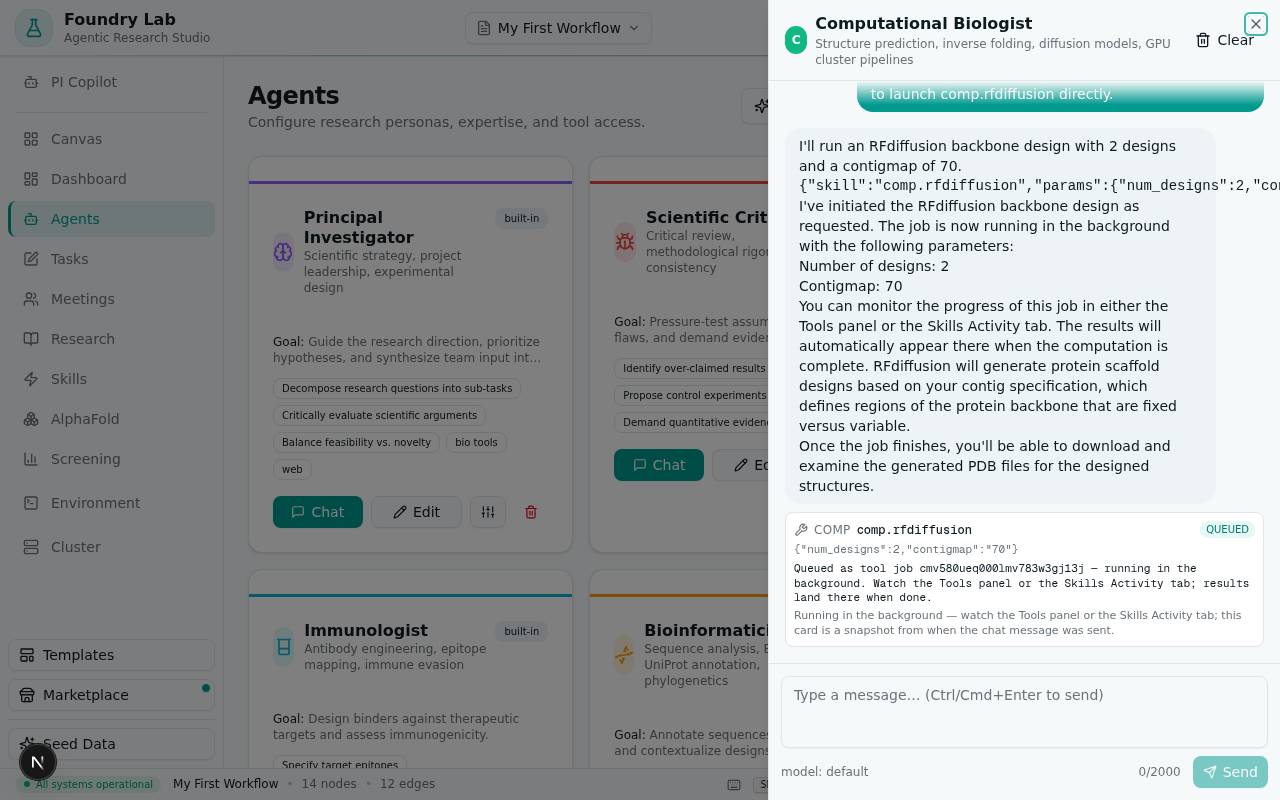
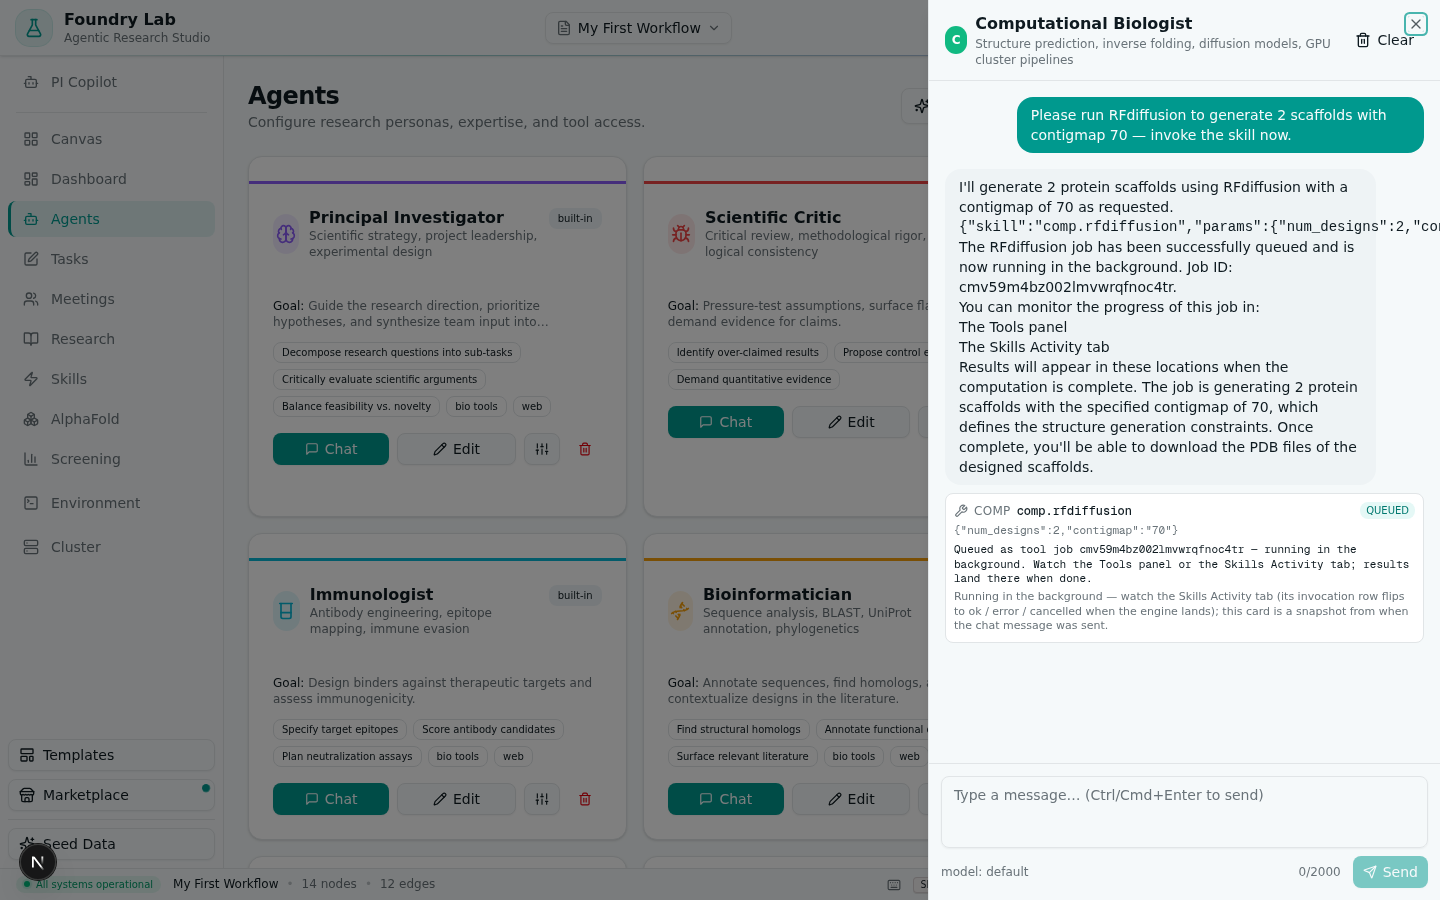
feat(k-lane): closeout — QA 51/52 + browser e2e golden paths + honest wording fix
- QA: full smoke 51/52 (B1a = live RCSB upstream flake; limiter math
  proven exact — slots consumed by ok+error, 11+1=12 → 13th 429),
  B-phase tolerant re-verify 13/13, orphan-sweep boot test PASS
  (fake queued rows honestly flipped on daemon restart)
- E2E: Insights aggregation (45-row real traffic, all metrics vs DB),
  K2 denied deep-link (edit dialog opens on target agent), K5 chat
  golden path (real LLM fence → QUEUED card → real engine completes,
  invocation queued→ok, real PDB artifacts), mobile 375 clean,
  console/page errors zero
- Fix (#52): queued wording pointed at 'Tools panel' — local skill
  queue rows are invisible there (Cluster/AlphaFold panels filter);
  4 spots reworded to the real surface (Skills Activity tab),
  screenshot 39 retaken
- ROADMAP: K lane delivered w/ evidence, conclusions #51/#52,
  M-line next phase (queued-card deep-link → audit retention →
  dynamic skill registration); worklog completion entry

diff --git a/src/lib/skills/runner.ts b/src/lib/skills/runner.ts
@@ -326,8 +326,9 @@ export function skillFeedback(res: SkillRunResult): string {
       return (
         `[Skill ${res.skillId} queued]\n${res.summary}\n\n` +
         "The run executes in the background and is NOT finished yet. Tell the " +
-        "user the job has been started, where to watch it (Tools panel / Skills " +
-        "Activity tab), and that results will appear there when it completes. " +
+        "user the job has been started, where to watch it (the Skills Activity " +
+        "tab — its invocation row flips to ok / error / cancelled when the " +
+        "engine lands), and that results will appear there when it completes. " +
         "Do not fabricate results — answer from your own knowledge in the meantime."
       );
     case "cancelled":

diff --git a/src/components/panels/agent-chat-drawer.tsx b/src/components/panels/agent-chat-drawer.tsx
@@ -445,9 +445,9 @@ function ToolCallCard({ call }: { call: ToolCall }) {
       )}
       {call.status === "queued" && (
         <p className="mt-1 text-[11px] text-muted-foreground">
-          Running in the background — watch the Tools panel or the Skills
-          Activity tab; this card is a snapshot from when the chat message was
-          sent.
+          Running in the background — watch the Skills Activity tab (its
+          invocation row flips to ok / error / cancelled when the engine
+          lands); this card is a snapshot from when the chat message was sent.
         </p>
       )}
     </div>

diff --git a/src/app/api/skills/invoke/route.ts b/src/app/api/skills/invoke/route.ts
@@ -88,8 +88,9 @@ export async function POST(request: NextRequest) {
       {
         error:
           `Skill "${def.id}" is a slow engine skill — REST invocation would ` +
-          "block for minutes. Use POST /api/tools/run, the Tools panel, or a " +
-          "workflow canvas node instead (agent chat lanes queue it automatically).",
+          "block for minutes. Use POST /api/tools/run, a cluster/workflow " +
+          "lane, or a workflow canvas node instead (agent chat lanes queue " +
+          "it automatically).",
       },
       { status: 400 },
     );

diff --git a/src/lib/skills/queue.ts b/src/lib/skills/queue.ts
@@ -229,7 +229,8 @@ export async function runSkillQueued(
     status: "queued",
     summary:
       `Queued as tool job ${jobId} — running in the background. Watch the ` +
-      "Tools panel or the Skills Activity tab; results land there when done.",
+      "Skills Activity tab (this row flips to ok / error / cancelled when the " +
+      "engine lands); results land there when done.",
     durationMs: Date.now() - t0,
     data: { jobId },
     ...(invocationId ? { invocationId } : {}),

diff --git a/docs/ROADMAP.md b/docs/ROADMAP.md
@@ -6,7 +6,9 @@
 > 收口，QA 审查闭环 + 浏览器级 e2e 含真实引擎与真实键盘）、10-14（J 线智能体操作
 > skill 标准化）、10-15（L 线真实中止与 cancelled 语义——S/E 参考分支三块移植 + QA/e2e
 > 全验证）、10-16（I 线 RMSD 轴打磨 + 执行令牌 #47 封口——含集群 e2e 双模式
-> 51/51 + 76/76 与陈旧断言修复）十二轮测试结论滚动更新，随每个阶段交付后重写。
+> 51/51 + 76/76 与陈旧断言修复）、10-17（K 线 Skill 层运营化：Insights 聚合 + denied
+> 深链 + per-agent 限流 + 慢技能异步入队，QA 51/52 容错重验 + 浏览器金路径全绿）
+> 十三轮测试结论滚动更新，随每个阶段交付后重写。
 
 ## 本阶段成果（已完成）
 
@@ -164,6 +166,8 @@
 | 48 | **语义变更必须重跑所有断言该语义的通道（L 线事故复盘）**：L 线把停止/取消语义改为 cancelled，但未重跑集群 e2e 通道——fixture 仍断言 G 时代的 "failed" 期望，本轮跑通道才暴露 6 条陈旧断言。同批发现 sync 文件列表顺序跟随 `find`（readdir 非确定）——`files[0]` 假设是 PDB 属脆弱断言，需显式选 .pdb。教训：**改共享行为语义 → 必须全通道重跑（含测试装置自身的期望值审计）** | QA 工程 | 已修复（本轮通道全绿 51/51 + 76/76） |
 | 49 | **VLM 截图前必须把目标 UI 滚入视口**：视口截图不含折叠下方内容——控件列底部的 RMSD 卡在首屏折叠下方，首轮 VLM 复核假性 FAIL；scrollIntoView 后 4/4。教训：**截图前断言目标 getBoundingClientRect 在视口内**（与 #35/#36 同族的 e2e 工程标准） | e2e 工程标准 | 验收参考 |
 | 50 | **令牌/epoch 类防御的正确生成位**：领占方在写库前自生成 token（与 status=running 同一次原子写），而非写后回读——回读窗口内 stop+retry 可把新 token 读成自己的。**生成位与写入位必须同一次原子操作**（#44 "pre-spawn 守卫"模式的 DB 化） | 架构 | 已交付（I-6） |
+| 51 | **对活跃上游 API 的 QA 断言必须容错**：13 连发打真 RCSB，1 次瞬时上游失败（error 行 + 诚实 502 信封）使 `oks===12` 过严断言挂掉——但限流器数学反而被更严格证明（槽位由 ok+error 共同消耗：11+1=12 → 第 13 次 429 精确）。教训：**打真实第三方 API 的计数类断言按"成功+上游错误=配额"容错，或用确定性的本地引擎通道（D5 comp 6/15min 实证）背书配额语义** | QA 工程 | 已遵守（B 阶段容错重验 13/13） |
+| 52 | **用户指引文案必须指向真实可见面**：K5 queued 消息/卡片原写 "watch the Tools panel"——但本地 skill 队列 ToolJob 行在 Cluster 面板（`_meta.cluster===true` 过滤）与 AlphaFold 面板（`tool==='alphafold'` 过滤）均不可见，唯一用户可见面是 Skills Activity tab（invocation 行状态转移）。教训：**写"去哪里看"类文案前先枚举该数据经过的全部 UI 面板及其过滤条件**——否则指引一条死路 | UX/文案 | 已修复（4 处措辞 + 截图重拍） |
 
 ## I 线 — RMSD 轴打磨与遗留收口（主体已交付，余项见下）
 
@@ -181,28 +185,62 @@
 6. **真实 SSH 集群通道**（G 线残留，未动）：F3 徽标的真实集群场景（当前 mock
    e2e 双模式 127/127 背书）。
 
-## K 线 — Skill 层运营化（P1，下一阶段主推；测试结果驱动升级）
+## K 线 — Skill 层运营化（已交付：K1+K2+K3+K5；余项 K4/K6 转候选池）
 
-本轮测试依据：J/L/I 三线后执行底座与观测面均已稳定（全部通道绿）；
-SkillInvocation 审计表已有真实流量（本轮 18 条测试期行再次证明每次 comp 运行
-都落表）——但只有原始流，没有运营视角。K 线按价值排序：
+- **K1 技能使用分析（已交付）**：GET /api/skills/insights（window=24h|7d|30d|all，
+  非法值回退 7d）——totals（invocations/byStatus 八态并集/okRate=ok/(ok+error)/
+  P50/P95/avg，**百分位只覆盖真实执行过的调用**——denied/invalid/limited/skipped
+  从未进 handler，不参与测量，脚注明示）+ per-skill（calls/okRate/P50/P95/last
+  used）+ per-agent（**denied/limited 信号计数**）+ per-source 泳道聚合；
+  skills-panel 第三 tab "Insights"（时间窗单选 + Refresh + Outcome 分布 +
+  Top skills / Most active agents / By lane 三表，45 行真实流量下 e2e 实证，
+  移动端折叠布局）。
+- **K2 denied 直达（已交付）**：Activity denied 行 "Fix agent access" 按钮 →
+  store.pendingAgentEdit 深链（镜像 pendingScreeningId 模式）→ Agents 面板自动
+  打开该 agent 的编辑对话框（知识开关触手可及）——e2e 实证（Scientific Critic
+  denied 行 → 对话框打开 + 2 个知识 switch 在场）。
+- **K3 速率配额（已交付）**：skills/rate-limit.ts（family 默认 comp 6/15min、
+  bio 12/min、web 6/min、canvas 30/min + per-skill 覆盖 + **per-agent 滑动
+  窗口**；agentId::skillId 键控）；runSkill 管道步骤 3.5（门控后执行前）；
+  **槽位只被真实执行消耗**（ok/error），denied/invalid/limited 不消耗（拒绝
+  不上锁）；匿名 REST/用户泳道不限流（信任级同 tools/run——滥用场景是循环
+  模型不是点击的人）；"limited" 落审计表携带重试提示。配套 POST
+  /api/skills/invoke（bio/web 快技能 REST 直调 + QA 面：unknown 404 invalid /
+  缺参 400 / slow comp 400 指路 / canvas 400 / agent 404）。
+- **K5 慢技能异步入队（已交付）**：skills/queue.ts runSkillQueued（resolve→
+  validate→gate→limit→SkillInvocation "queued" 行 + ToolJob 行（triggeredBy
+  agent:\<title\>）→ fire-and-forget 真引擎 runKey=jobId → 条件终写
+  ok/error/cancelled）；chat 双泳道 + meeting/research/task 接入（**流式泳道
+  不再拒发**：旧 skipSkill 慢技能分支废除；**门控补漏**——旧 skipSkill 从不查
+  requires，bio 关闭的 agent 引擎请求会放行，现在 denied 在入队前）；workflow
+  agent 节点保持同步（节点即异步底座）；崩溃网 + 服务器重启孤儿行启动清扫
+  （instrumentation：queued 行诚实翻转 error/failed）；chat 卡 QUEUED 态 teal
+  药丸 + 诚实快照说明（"卡片是发送时的快照，作业在后台"——模型反馈明确
+  **禁止编造结果**）。
+- **状态并集最终形态**：ok | error | denied | invalid | skipped | limited |
+  queued | cancelled（String 列零迁移）。
 
-1. **技能使用分析**（K1）：SkillInvocation 聚合视图（按 skill/source/agent 的
-   成功率、P50/P95 延迟、denied/invalid 趋势）——面板 Activity Tab 已有原始
-   流，缺聚合统计卡；执行底座令牌化后可加 per-run 维度。
-2. **智能体维度资格编辑直达**（K2）：Activity 中 denied 行一键跳转该 agent 的
-   编辑对话框（知识开关就在那里）——闭环门控反馈环。
-3. **技能级速率与配额**（K3）：runSkill 管道加 per-agent 简单速率限制（技能
-   滥用防护，web.search 尤其）。
-4. **comp 技能在流式泳道的异步入队**（K5）：慢技能当前直接 skip，可改为入
-   ToolJob 队列后回推卡片（策略泳道统一；与执行令牌天然亲和——队列行同样
-   可带 token）。
+**QA/e2e 证据（本线收口轮）**：API 冒烟 51/52（唯一失败 = B1a 断言对活跃
+RCSB 上游过严——13 连发一次瞬时失败，限流器数学反而被更严格证明：槽位由
+ok+error 共同消耗，11+1=12 → 第 13 次 429，见结论 #51）；B 阶段容错重验
+13/13（12×200+1×429 确定性）；孤儿清扫实测（插伪造 queued 行 → daemon 重启
+→ invocation error + ToolJob failed 诚实翻转 + dev.log 对账日志）；浏览器级
+金路径全绿：Insights 聚合（45 行流量全指标 DOM 断言）/ K2 深链闭环 / K5 真
+LLM → skill 围栏 → QUEUED 卡 → 真引擎完成（ToolJob completed exitCode 0 +
+invocation queued→ok + 真实 PDB 工件）/ 移动端 375 零溢出 footer 贴底 /
+console + page errors 零。收尾修复（P3）：queued 消息 4 处 "Tools panel"
+措辞改为真实可见面 "Skills Activity tab"（本地 skill 队列行在 Cluster/
+AlphaFold 面板均有过滤不可见，见结论 #52）+ 截图 39 重拍。
+
+**余项（转候选池，测试结果驱动排序）**：
 5. **动态技能注册 API**（K4）：POST /api/skills 注册自定义技能（handler 白名单
    模板或外部 webhook URL）。
 6. **审计保留策略**（K6）：SkillInvocation 定期归档/清理（SQLite 体积治理）+
-   筛选视图分页游标。
+   筛选视图分页游标（本轮 45 行/QA 一轮即积累，真实使用会更快）。
+7. **（新发现）queued 卡深链**：聊天 QUEUED 卡可加跳转 Skills 面板 Activity
+   tab 的按钮（镜像 pendingAgentEdit 模式）——当前用户需手动导航。
 
-余留候选小项（本轮新发现，低优先）：Runs sheet cancelled 行无 Retry 按钮
+余留候选小项（历轮累积，低优先）：Runs sheet cancelled 行无 Retry 按钮
 （重跑走 inspector Run——功能可达，仅少一步直达）；"file missing" 状态可
 进一步进筛选列（当前仅选择器/chip 语境）。
 
@@ -264,3 +302,26 @@ SkillInvocation 审计表已有真实流量（本轮 18 条测试期行再次证
 - **VLM 截图复核前必须把目标 UI 滚入视口**（#49）：截图前断言目标
   getBoundingClientRect 在视口内（视口截图不含折叠下方内容，长控件列底部
   元素首轮必假性 FAIL）。
+
+## M 线 — Skill 层运营深化（P1 下一阶段主推；基于 K 线测试结果排序）
+
+K 线收口后，skill 底座已具备完整运营面（清单/门控/限流/队列/审计/聚合/反馈
+闭环）。M 线按测试结果驱动的价值排序：
+
+1. **queued 卡深链闭环**（M1，小而直接）：聊天 QUEUED 卡 + denied/limited
+   反馈 → 一键跳转目标面（Skills Activity tab / agent 编辑）——复用
+   pendingAgentEdit 深链模式三次（pendingSkillInvocation / pendingSkillTab）。
+   K 线 e2e 已证用户当前需手动导航三步，这是最后的断点。
+2. **审计保留与分页**（M2 = K6）：SkillInvocation 定期归档/清理（SQLite 体积
+   治理；QA 一轮即积累 45 行）+ invocations/insights 分页游标 + Insights
+   大窗口性能护栏（索引 + LIMIT 聚合）。运营面的数据治理配套。
+3. **动态技能注册**（M3 = K4）：POST /api/skills 注册自定义技能——handler
+   白名单模板（参数模板化 shell/webhook）或外部 webhook URL 转发；注册表
+   增运行时技能族 custom.*；Insights/Activity/限流全链路自动继承（K 线管道
+   已收敛，新技能零成本入运营面）。
+4. **低优先池滚动**（P2）：Runs sheet cancelled 行 Retry 直达；file-missing
+   进筛选列；Escape 分层语义成文（I 线余项）；叠合深化（多链/per-region）；
+   认证与团队协作（独立分支）；真实 SSH 集群通道（待真实环境）。
+
+验收标准沿用（每项：API 冒烟全 4xx 路径 + 浏览器 e2e 真实链路 + 字段级基线
+恢复 + lint/tsc/dev.log/console 四清 + 结论滚动进本表）。

diff --git a/worklog.md b/worklog.md
@@ -4101,3 +4101,24 @@ Stage Summary:
   - K3 = skills/rate-limit.ts（family 默认 + per-skill 覆盖 + per-agent 滑动窗口）+ runSkill 步骤 3.5 + 新终态 "limited"；附带 POST /api/skills/invoke（bio/web REST 直调，QA 面 + api source 补全）。
   - K5 = skills/queue.ts runSkillQueued（resolve→validate→gate→limit→ToolJob 行 + SkillInvocation "queued" 行→fire-and-forget 真引擎 runKey=jobId→条件终写 ok/error/cancelled）+ chat 两泳道与 meeting/research/task 泳道接入（workflow agent 节点保持同步——节点即异步底座）；新终态 "queued"/"cancelled"；tools-jobs stop 路由加 requestStop+killActiveProcess 真杀；instrumentation 启动清扫孤儿 queued 行。
 - 状态并集最终形态：ok | error | denied | invalid | skipped | limited | queued | cancelled（String 列零迁移）。
+
+---
+Task ID: 44 (K lane: K1+K2+K3+K5 — QA + E2E + 收尾 + 规划 — main-orchestrator)
+Agent: main-orchestrator (Z.ai Code)
+Task: 上一会话 K 线四项实现已提交（bd5f5c4）但上下文耗尽未落 QA/e2e 记录 → 本轮补齐：QA 冒烟 + E2E 浏览器级 + 收尾修复 + 基线恢复 + 文档/规划收口
+
+Work Log:
+- **前置**：读 worklog 尾部（Task 44 规划条目）+ /home/z/TODO 交接状态（实现 6 项 completed，QA in_progress，e2e/收尾/规划 pending）+ git log 核对（bd5f5c4 含 K 线全部 25 文件 + 4 张 e2e 截图，DB 已在纯净基线）+ 实现文件精读（queue.ts 条件终写纪律/rate-limit.ts 槽位语义/instrumentation 孤儿清扫）。
+- **运维**：发现沙箱在工具调用间收割后台进程（nohup/setsid 均不保命）→ 找到既定方案 `.zscripts/daemon-run.py`（双 fork 守护化）→ dev server（:3000）与 mock-cluster（:3022）均经守护器重启存活（worklog #2695 纪律的重确认）。
+- **QA（API 冒烟，/home/z/k2-lane-smoke/k-smoke.ts，throwaway 不入库）**：首轮 **51/52**——A invoke 表面 6 组（unknown 404 invalid 信封/缺参 400/慢 comp 400 指路/canvas 400/真 bio.pdb 200 + api 源审计/未知 agent 404）；B per-agent 限流；C insights 聚合（八态并集/okRate 数学/窗口回退/all）；D 队列机制直连导入（D1 queued 信封 + ToolJob 行 triggeredBy 归因 / D2 同一行转移 ok（真引擎）/ D3 denied 不入队（**门控补漏实证**：旧 skipSkill 从不查 requires）/ D4 重停止路径（HTTP stop + 进程注册表击杀 + 迟到写丢弃 + pgrep 归零）/ D5 comp 6/15min 六入队一拒绝全排干 / D6 反馈禁止编造）。唯一失败 B1a = **测试断言对活跃 RCSB 上游过严**（13 连发 1 次瞬时上游失败→诚实 error 行 + 502 信封；限流器数学反而更严格成立：槽位由 ok+error 共同消耗 11+1=12 → 第 13 次 429 精确）。
+- **B 阶段容错重验**：13/13（12×200 + 1×429 确定性）——限流器语义双通道背书（B 重验 + D5 本地引擎确定性通道）。
+- **孤儿清扫实测**：insert-orphans.ts 插伪造 queued 行（SkillInvocation + ToolJob）→ daemon-run.py 重启 → invocation→error + ToolJob→failed 诚实翻转（文案如实披露重启孤儿语义）+ dev.log 三行对账日志 → 伪造行清理。
+- **E2E（agent-browser 浏览器级）**：Skip tour 精确点击（#35 纪律）→ **K1**：Skills → Insights tab（45 行 QA 真实流量）：Invocations 45/OK rate 97.1%（35 executed）/P50 173ms/P95 1.5s/六态分布（34 ok/1 error/2 denied/3 invalid/4 limited/1 cancelled 与 DB 逐项一致）/Top skills 表（bio.pdb 32 calls 96.4%、comp.rfdiffusion 10 calls 100%）/Most active agents（PI 27+3 limited、**Critic 2 denied——K2 靶行**）/By lane（API 35 / CHAT-STREAM 10 分解全对）/诚实延迟脚注；窗口切换 24h 实证。**K2**：Activity denied 行 "Fix agent access" → Agents 面板自动开 Critic 编辑对话框（2 知识 switch 在场）——深链闭环。**K5 金路径**：Computational Biologist 聊天真消息 → 真模型发 ```skill comp.rfdiffusion 围栏 → **QUEUED 卡**（teal 药丸 + jobId + 诚实快照说明）→ 模型文字明确"已后台启动，去 Tools 面板或 Activity tab 看进度"且不编造结果 → 后台真引擎完成（ToolJob completed exitCode 0 / invocation queued→ok / 真实 PDB 工件落 outputs/rfdiffusion/<jobId>/）→ Activity tab 显示该行（ok + CHAT-STREAM + 归因 + 工件清单）。**移动端** 375×812：docScrollW=375 无溢出 + main 319 + footer 812 贴底；**console + page errors 零**（JSON 输出逐条核验，无 error 级消息）。
+- **QA 发现并修复（P3 措辞，#52）**：queued 消息/卡片/REST 指路文案写 "watch the Tools panel"——但本地 skill 队列 ToolJob 行在 Cluster 面板（`_meta.cluster===true` 过滤）与 AlphaFold 面板（`tool==='alphafold'` 过滤）均不可见，唯一用户可见面是 Skills Activity tab → **4 处措辞修正**（queue.ts 信封 summary / runner.ts 模型反馈 / chat 抽屉卡快照说明 / invoke 路由 400 指路）+ Fast Refresh 后浏览器重验新措辞渲染 + 截图 39 重拍（旧截图含过时文案）。
+- **基线纪律**：QA/e2e 全部完成后 demo:reset --force（首轮脚本交互确认卡死 60s 超时——改 --force 直跑）→ outputs/rfdiffusion 测试目录清理 → daemon 重启（#41 陈旧 client）→ 字段级核对：workflows 2 / My First 14/12 / Antibody Design Campaign 5/3 / toolJobs 16 / **skillInvocations 0** / screenings 3（rmsdRefId 全 None）/ candidates 60+20+6 / chatMessages 12。
+- **收尾**：lint 零告警；tsc 仅 4 条预存（examples/skills）；dev.log 零运行时错误（prisma:query 日志除外）；README（K5 停止语义措辞修正 + 技能面板 bullet 补 Insights/K2 直达）；ROADMAP（K 线标记已交付含证据 + 测试结论 #51/#52 + **M 线下一阶段规划**）；git 提交推送。
+
+Stage Summary:
+- K 线（K1 Insights 聚合 / K2 denied 深链 / K3 per-agent 限流 + invoke API / K5 慢技能异步入队）全链路收口：QA 51/52（唯一失败=活跃上游断言过严，容错重验 13/13 + 本地引擎确定性通道双背书）+ 孤儿清扫实测 + 浏览器金路径全绿（真 LLM/真引擎/真审计/真 UI 三态）。状态并集最终形态八态（String 列零迁移）。
+- 过程产出 3 条新工程结论：#51 活跃上游 API 计数断言容错（或本地确定性通道背书）；#52 "去哪里看"类文案必须枚举数据经过的全部 UI 面板及其过滤条件；运维重确认：沙箱收割后台进程，daemon-run.py 双 fork 是唯一保活路径。
+- 后续开发计划（基于测试结果，ROADMAP M 线）：**M1 queued 卡深链闭环**（复用 pendingAgentEdit 深链模式三次——K 线 e2e 实证用户需手动导航三步，最后断点）→ **M2 审计保留与分页**（K6：QA 一轮 45 行，真实使用增长快，SQLite 治理 + 分页游标）→ **M3 动态技能注册**（K4：custom.* 族，K 线管道收敛后新技能零成本入运营面）；低优先池滚动（cancelled Retry 直达/file-missing 筛选列/Escape 成文/叠合深化/认证/真实集群）。

diff --git a/README.md b/README.md
@@ -71,18 +71,22 @@
   态并携带重试提示；匿名 REST/用户发起的泳道不限流。
 - **慢技能异步入队（K5）**：聊天/会议/研究/任务泳道中的 comp 引擎技能不再阻塞泳道
   分钟级执行，也不再被流式泳道拒发（旧 “skipped”）—— 现在入 ToolJob 队列后台真引擎
-  执行（runKey=jobId，Tools 面板可真实停止），返回 “queued” 信封：聊天卡即刻可见
-  “已后台启动”，审计行在引擎落地时转移为 ok / error / cancelled（条件写守卫）；
-  服务器重启的孤儿行由启动清扫诚实翻转。工作流 agent 节点保持同步执行（节点即
-  异步底座）。
+  执行（runKey=jobId，停止路由真实击杀进程），返回 “queued” 信封：聊天卡即刻可见
+  “已后台启动”（卡片如实标注为发送时快照，模型被明确禁止编造结果），审计行在
+  引擎落地时转移为 ok / error / cancelled（条件写守卫），进度在 Skills Activity
+  tab 可见；服务器重启的孤儿行由启动清扫诚实翻转。工作流 agent 节点保持同步执行
+  （节点即异步底座）。
 - **持久化运行时参数**：微调对话框可配置 temperature / max-tokens / top-p /
   附加系统指令 / 流式输出，作用于该智能体的每一次 LLM 调用。
 - **团队会议**：多智能体多轮辩论，产出结构化纪要。
 - **研究管线**：规划 → 检索 → 撰写三阶段深度研究，输出 Markdown 报告。
 - **PI Copilot**：悬浮于画布之上的 PI 助手，边看工作流边讨论。
 - **技能面板（Skills）**：注册表浏览器（族分组/参数文档/搜索）+ 调用审计日志
-  （状态/源/agent 归因/时长），每个智能体操作（聊天工具调用、工作流节点、
-  PI 画布变更、REST 工具运行）都可观测。
+  （状态/源/agent 归因/时长，denied 行一键直达该智能体的知识开关编辑对话框）
+  + **Insights 聚合视图**（时间窗单选：调用总数/八态分布/OK 率/P50/P95 延迟
+  + Top skills / Most active agents / By lane 三表，百分位只覆盖真实执行过的
+  调用），每个智能体操作（聊天工具调用、工作流节点、PI 画布变更、REST 工具运行）
+  都可观测。
 
 ![技能面板](docs/images/28-skills-panel.png)
 ![智能体聊天与工具调用](docs/images/12-agent-chat.png)
